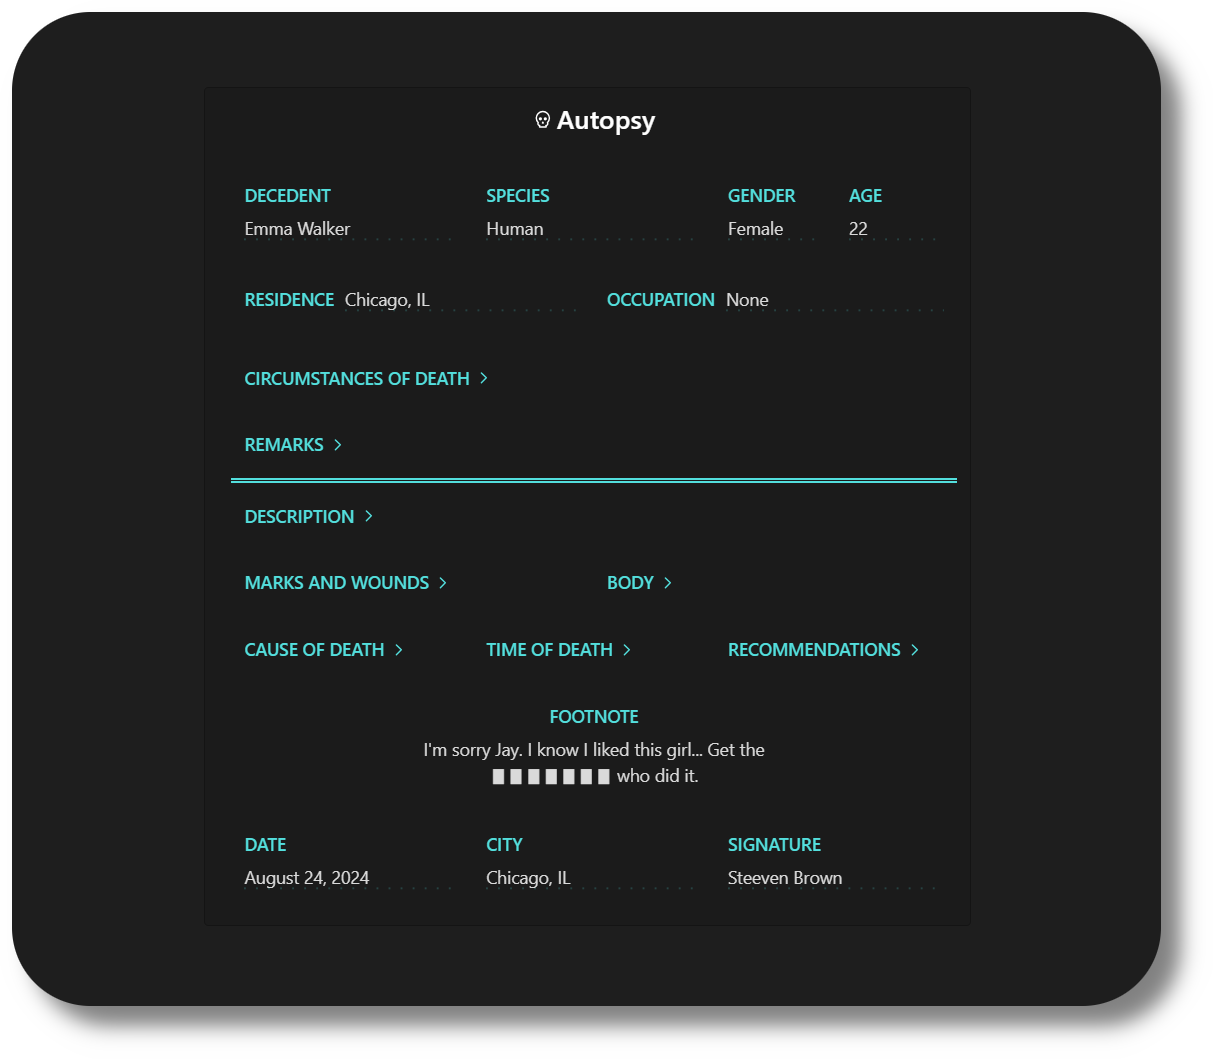
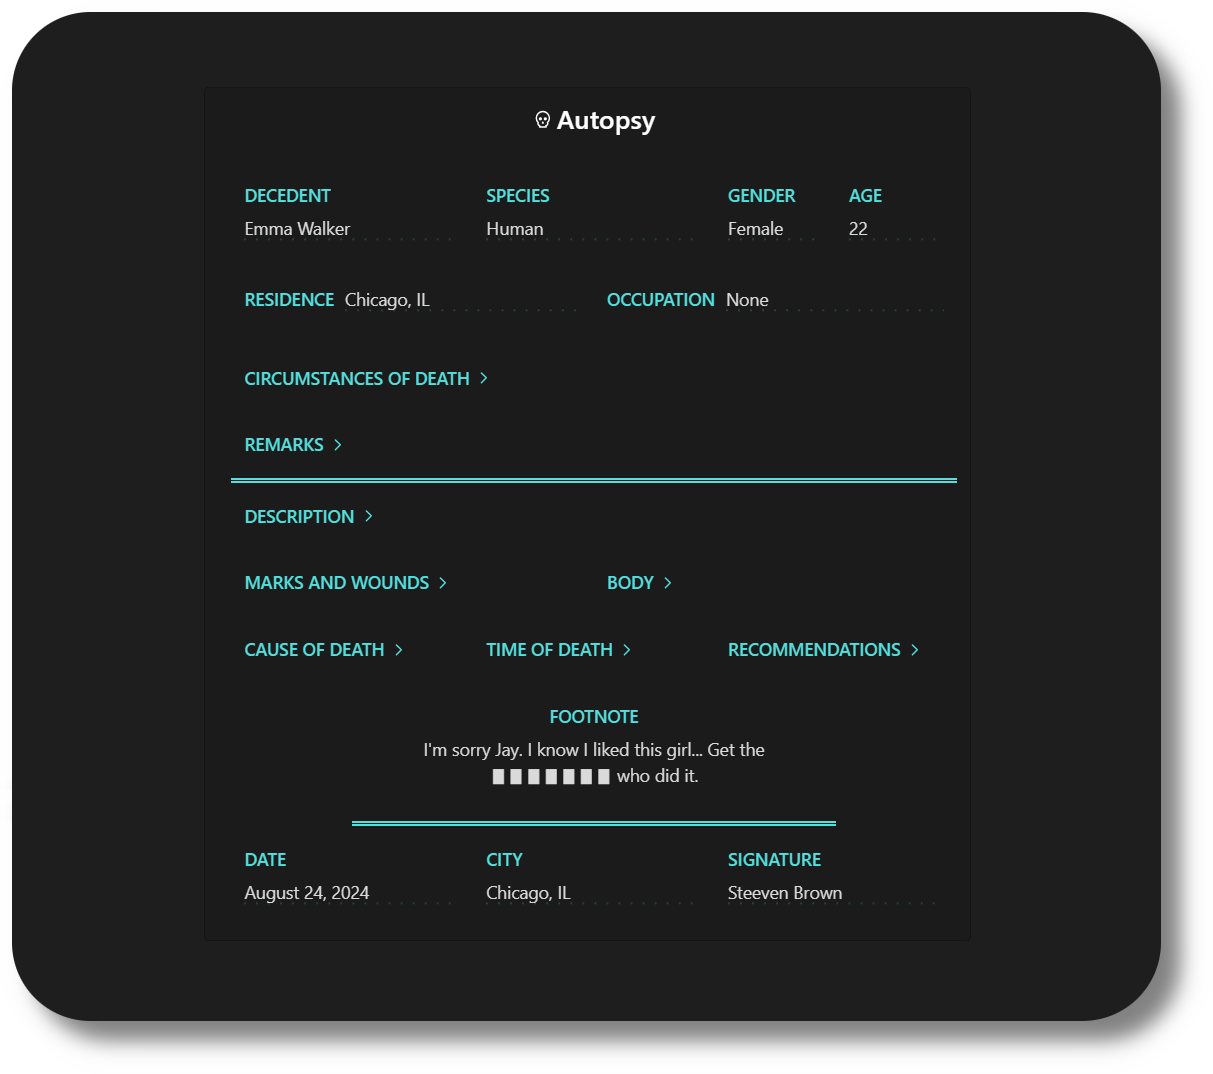
Fix metadata options

diff --git a/snippets/callouts/README.md b/snippets/callouts/README.md
@@ -177,7 +177,7 @@ Small snippet that applies a grid-layout to the content. You can set the callout
 
 **FILE**: [callout-autopsy.css](callout-autopsy.css)
 
-This snippet is more complex than others. It let you write in an autopsy report for your fiction.
+This snippet is more complex than others. It let you write in an autopsy report for your fiction. I took all of my inspiration from this [Reddit resource](https://www.reddit.com/r/Eberron/comments/o8ssdi/template_for_a_crown_necromancers_report_coroner/) that I tried to copy as best as I could.
 
 Let's start with the screenshots to give you an idea of the result, and scroll down to see how it really works.
 
@@ -281,7 +281,7 @@ Let's start with the screenshots to give you an idea of the result, and scroll d
 > > [!recommendations]+ Recommendations
 > > The manner of death is classified as homicide. Further investigation is recommended to identify the perpetrator and motive behind this crime.
 > 
-> > [!footnote|no-dots] Footnote
+> > [!footnote|no-dots hr] Footnote
 > > I'm sorry Jay. I know I liked this girl... Get the ▮▮▮▮▮▮▮ who did it.
 > 
 > > [!date] Date
@@ -386,7 +386,7 @@ Let's start with the screenshots to give you an idea of the result, and scroll d
 > > [!recommendations]+ Recommendations
 > > 
 > 
-> > [!footnote|no-dots] Footnote
+> > [!footnote|no-dots hr] Footnote
 > > 
 > 
 > > [!date] Date
@@ -420,7 +420,7 @@ Grid is 6 columns, following the following layout:
 ### Optional styles from the markdown
 
 The snippet let you have just a few controls over the style of the final result, by using callouts metadata: `> [!callout-id|callout-metadata-1 callout-metadata-2]`. Followings are available:
-- `hr`: add a bottom double border under the section (in example: `remarks` section)
+- `hr`: add a bottom double border under the section (in example: `remarks` and `footnote` sections)
 - `inline`: inline in the same flow the title of the section and its content (in example: `redisence` and `occupation` sections)
 - `no-dots`: remove the dotted lines under the text (in example: `footnote` section)
 
